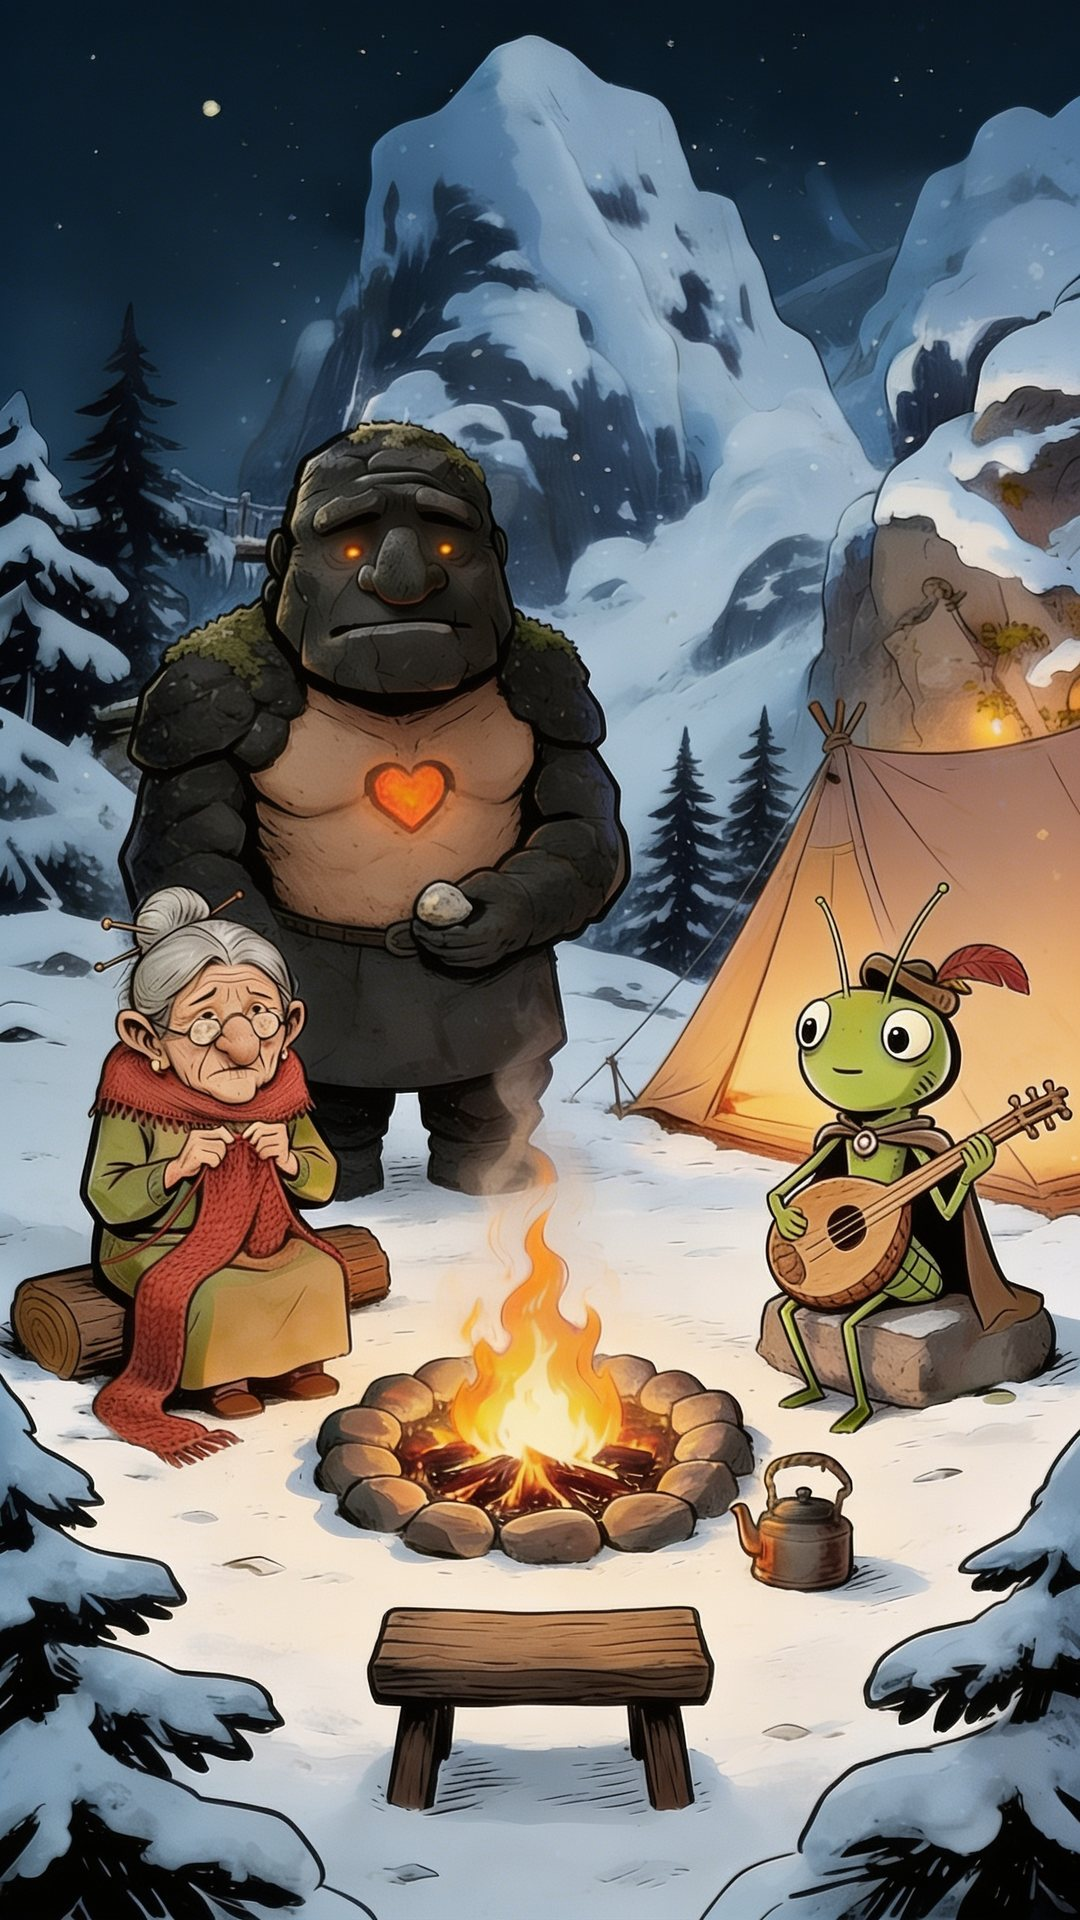
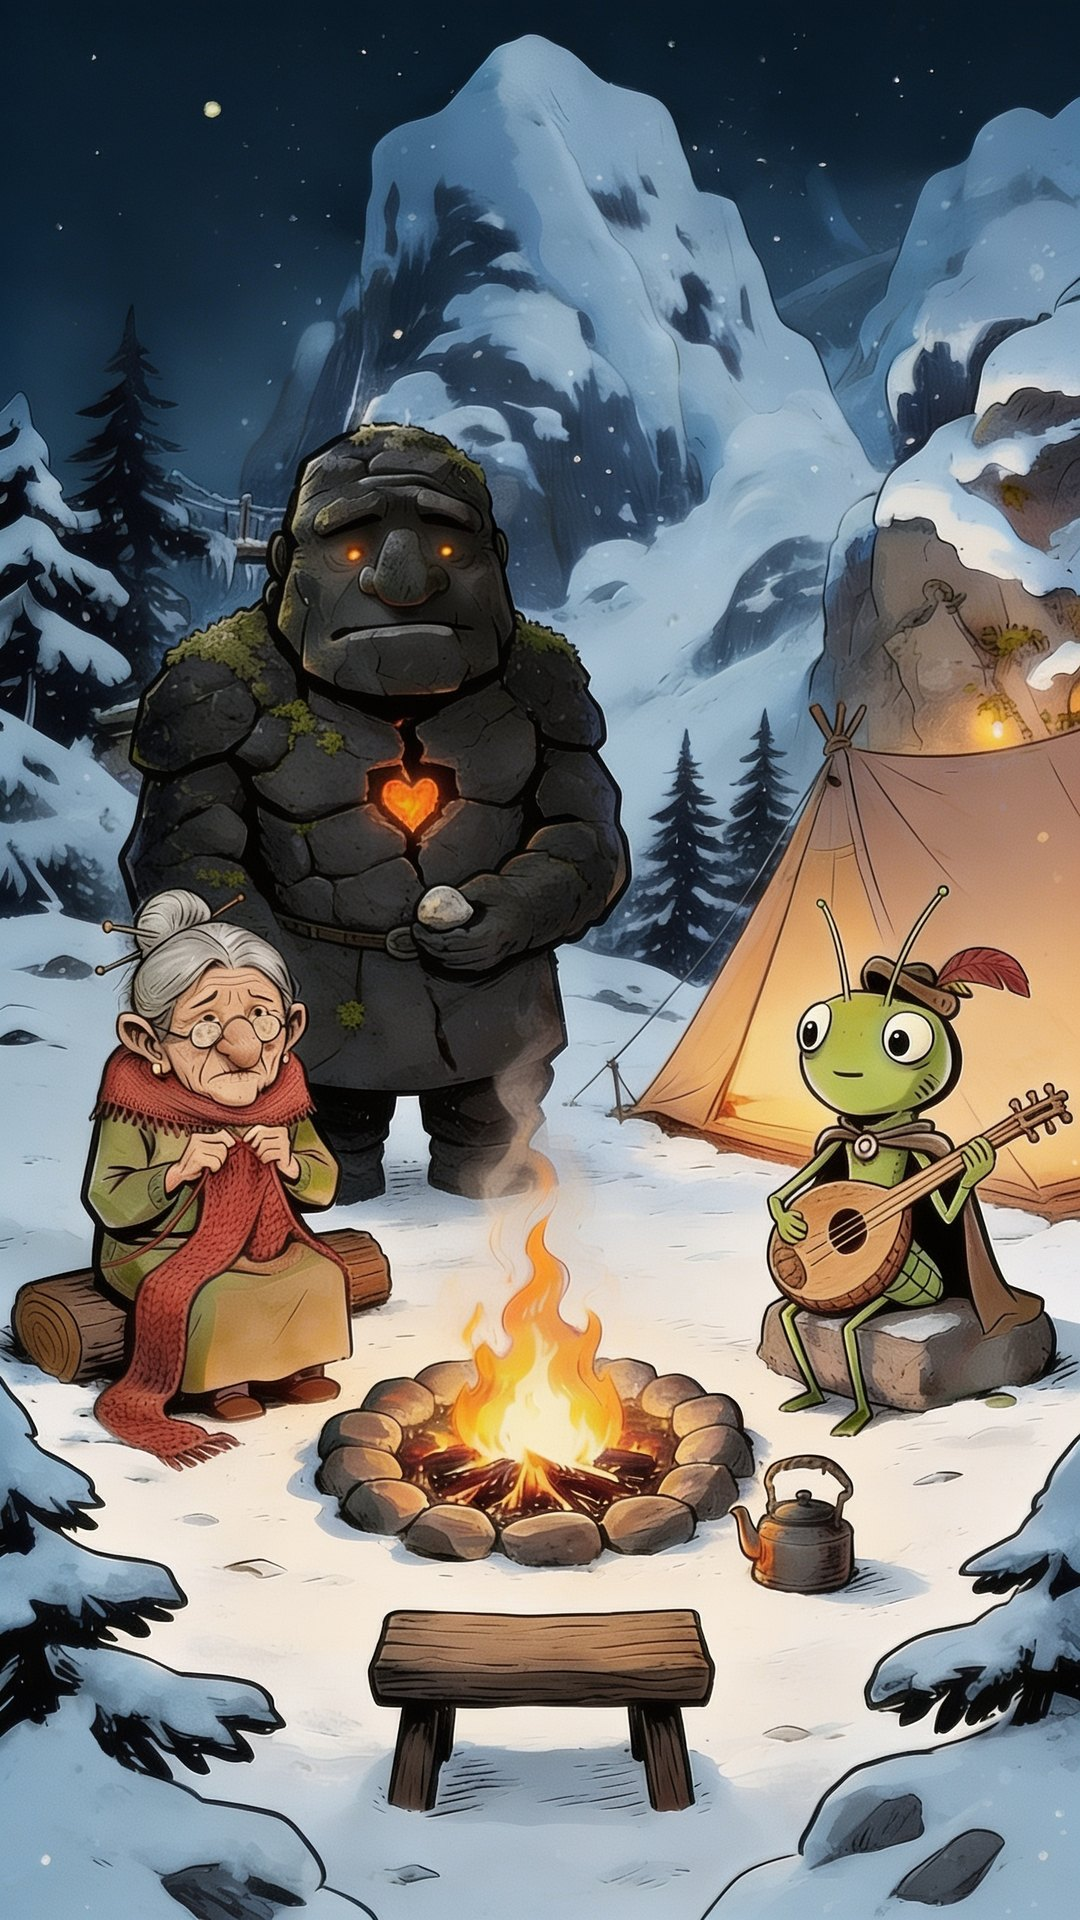
Quest 24: Quest 24: Lagerfeuer lager17 mit Grumbold ganz aus dunklem Stein
Claude-Session: https://claude.ai/code/session_013ksHH1RN3knNHjnsFznGtM

diff --git a/index.html b/index.html
@@ -9,7 +9,7 @@
 <meta name="robots" content="noindex">
 <link rel="preconnect" href="https://fonts.googleapis.com"><link rel="preconnect" href="https://fonts.gstatic.com" crossorigin>
 <link href="https://fonts.googleapis.com/css2?family=Grenze+Gotisch:wght@500;700;800&family=Alegreya:ital,wght@0,400;0,500;0,700;1,400&family=Alegreya+SC:wght@500;700&family=Caveat:wght@500;700&display=swap" rel="stylesheet">
-<link rel="stylesheet" href="style.css?v=1794263664">
+<link rel="stylesheet" href="style.css?v=1794263935">
 </head>
 <body>
 
@@ -59,27 +59,27 @@
 <div id="sheet" class="ovl sheet"></div>
 <div id="toast" class="toast"></div>
 
-<script src="gate.js?v=1794263664"></script>
-<script src="engine.js?v=1794263664"></script>
-<script src="scene.js?v=1794263664"></script>
-<script src="dice.js?v=1794263664"></script>
-<script src="items.js?v=1794263664"></script>
-<script src="battle.js?v=1794263664"></script>
-<script src="ui.js?v=1794263664"></script>
-<script src="slyr.js?v=1794263664"></script>
-<script src="games.js?v=1794263664"></script>
-<script src="malen.js?v=1794263664"></script>
-<script src="takt.js?v=1794263664"></script>
-<script src="bossgames.js?v=1794263664"></script>
-<script src="films.js?v=1794263664"></script>
-<script src="days1.js?v=1794263664"></script>
-<script src="days2.js?v=1794263664"></script>
-<script src="days3.js?v=1794263664"></script>
-<script src="days4.js?v=1794263664"></script>
-<script src="hero.js?v=1794263664"></script>
-<script src="qrcode.js?v=1794263664"></script>
-<script src="komplize.js?v=1794263664"></script>
-<script src="urkunde.js?v=1794263664"></script>
-<script src="main.js?v=1794263664"></script>
+<script src="gate.js?v=1794263935"></script>
+<script src="engine.js?v=1794263935"></script>
+<script src="scene.js?v=1794263935"></script>
+<script src="dice.js?v=1794263935"></script>
+<script src="items.js?v=1794263935"></script>
+<script src="battle.js?v=1794263935"></script>
+<script src="ui.js?v=1794263935"></script>
+<script src="slyr.js?v=1794263935"></script>
+<script src="games.js?v=1794263935"></script>
+<script src="malen.js?v=1794263935"></script>
+<script src="takt.js?v=1794263935"></script>
+<script src="bossgames.js?v=1794263935"></script>
+<script src="films.js?v=1794263935"></script>
+<script src="days1.js?v=1794263935"></script>
+<script src="days2.js?v=1794263935"></script>
+<script src="days3.js?v=1794263935"></script>
+<script src="days4.js?v=1794263935"></script>
+<script src="hero.js?v=1794263935"></script>
+<script src="qrcode.js?v=1794263935"></script>
+<script src="komplize.js?v=1794263935"></script>
+<script src="urkunde.js?v=1794263935"></script>
+<script src="main.js?v=1794263935"></script>
 </body>
 </html>
